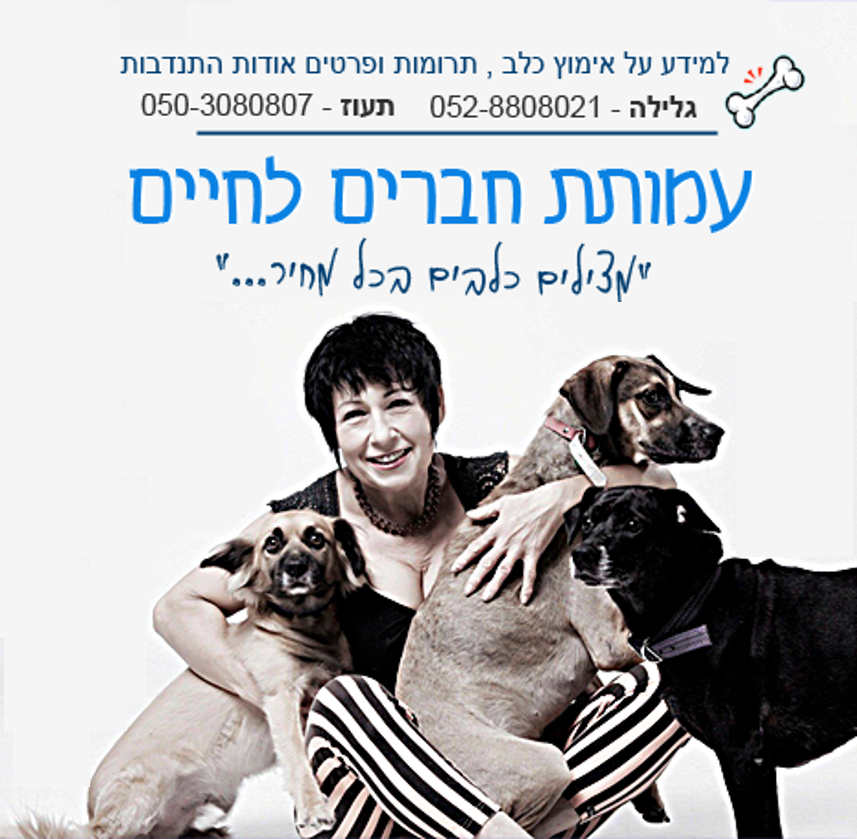
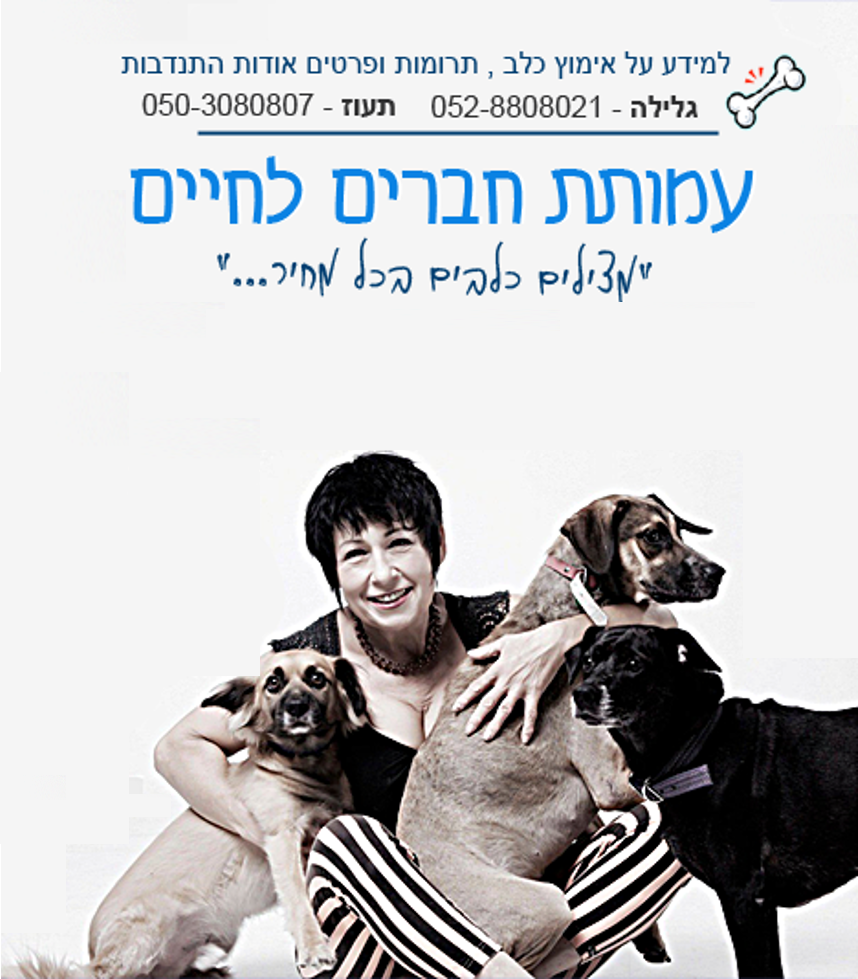
lot's of changes (: good night!

diff --git a/friends_forlife/app/templates/app/house_registration.html b/friends_forlife/app/templates/app/house_registration.html
@@ -1,0 +1,128 @@
+<!-- 
+	
+class DogHouse(models.Model):
+    owner_name = models.CharField(max_length=200, help_text="Name of doghouse owner")
+    owner_phone = models.CharField(max_length=200, help_text="Phone Number of owner")
+    owner_email = models.EmailField(help_text="Email of doghouse owner")
+    owner_city = models.CharField(max_length=50)
+    address = models.CharField(max_length=500, help_text="Full-Address Of DogHouse")
+    capacity = models.IntegerField(help_text="Maximum dogs capacity")
+
+	
+!-->
+	
+<!DOCTYPE html>
+<html class="no-js">
+	<head>
+	    <meta charset="utf-8">
+	    <meta name="viewport" content="width=device-width, initial-scale=1, minimum-scale=1">
+	    <meta http-equiv="X-UA-Compatible" content="IE=edge,chrome=1">	
+	    <title>Friends for Life</title>	
+	    <script type='text/javascript' src='https://ajax.googleapis.com/ajax/libs/jquery/1.8.3/jquery.min.js'></script>
+		<script src="../../static/js/modernizr.js"></script>
+		
+		<link rel="stylesheet" href="../../static/style/style.css">
+		<link rel="stylesheet" href="../../static/style/styleMobile.css">
+<script>
+  var footerResize = function() {
+    $('#footer').css('position', $("body").height() + $("#footer").innerHeight() > $(window).height() ? "inherit" : "fixed");
+  };
+  $(window).resize(footerResize).ready(footerResize);
+</script>
+	</head>
+	<body dir="rtl">	
+		<div id="outer-wrap">
+			<div id="inner-wrap">	
+			    <header id="top">
+			        <div class="block">
+			            <a href="index.html"  id="logo"></a><!--Logo-->
+			            <a class="nav-btn" id="nav-open-btn" href="#nav">Book Navigation</a>
+						<div id="contact">
+							<div id="loginBannerBeforeClick">
+								<button id="btnClick" class="based">כניסה למערכת</button>
+							</div>
+							
+							<div id="loginBannerAfterClick" style="display:none;">
+								<form name="login" action="index_submit" method="get">							        	
+						        	<input type="text" name="usermail" placeholder="שם משתמש" required>
+						        	<input type="password" name="password" placeholder="סיסמא" required>
+						        	<input type="submit" value="כניסה">
+								</form>	
+							</div>													
+						</div>	    
+					    <nav id="nav">
+				            <ul>
+				                <li class="navBtnAdopt">
+				                    <a href="dogs_4_adoption.html">אמץ כלב</a>
+				                </li>
+				             	<li class="navBtnFoster">
+				                    <a href="house_registration.html">רישום לאומנה</a>
+				                </li>
+				             <li class="navBtnAbout">
+				                    <a href="#">על העמותה</a>
+				                </li>
+				                </li>
+				                <li class="navBtnDonate">
+				                    <a href="#">תרומה</a></a>
+				                </li>
+				            </ul>	
+			            	<a class="close-btn" id="nav-close-btn" href="#top">Return to Content</a>
+			    		</nav>
+					</div>			        
+			    </header>
+				<main id="main">
+					<div class="block">
+						<div class="mainTop"></div>
+						<div class="mainContent">
+							<h1>רישום לאומנה</h1>
+							<section class="Foster_Registration">
+								<article class="information_about_foster">
+									משפחות רבות חוששות לאמץ ולהביא הביתה כלב או חתול, 
+									מחשש שיהיה צורך להחזירו בשל חוסר התאמה.
+									 לנו בעמותת "חברים לחיים" 
+									 חשוב ליידע את הציבור שישנה דרך נוספת, מוכרת פחות לשם סיוע להצלת כלבים וחתולים.
+									   מכיוון שהעמותה פועלת בדרך ייחודית - ללא מכלאות, 
+									 מרבית בעלי החיים שלנו שוהים במהלך השבוע בבתים של משפחות אומנה.  
+									 בית אומנה נועד לארח את בעל החיים זמנית לתקופה קצובה, 
+									 לרוב של שבוע. במהלך השבוע הכלב או החתול יגיעו  ליום האימוץ אשר בו ימצא בית מאמץ קבוע או שיעבור לבית אומנה זמני אחר, 
+									 לשבוע נוסף. גם אם בעל החיים עובר כמה בתים עד למציאת בית קבע, 
+									 הוא אינו נמצא ברחוב או חווה את חווית המכלאה הקשה והטראומטית. הוא נמצא בבית עם אנשים שנותנים לו חום ודואגים למחסורו. 
+									  הניסיון מלמד שדרך ייחודית זו מביאה פעמים רבות לכך שבסוף התהליך, 
+									 מגיע למשפחה המאמצת בעל חיים חברותי ורגוע יותר.
+										המשפחה האומנת מקבלת מזון לכל אורך תקופת השהייה, 
+										ביקורים אצל וטרינר במידת הצורך, ייעוץ רלוונטי וליווי ע"י משרד העמותה.  כך,
+										 גם כאלה שאינם בעלי ניסיון בגידול כלבים או חתולים יכולים לקחת חלק בתהליך ולסייע לנו. 
+										 במהלך שנות הפעילות הרבות שלנו, נתקלנו באנשים רבים ש"לא ידעו שהם כאלה" -
+										 כלומר שיש בהם אהבה גדולה לבעלי חיים שרק מחכה לפרוץ החוצה, 
+										ושמאז שההולך על ארבע נכנס לביתם, חייהם השתנו לטובה. 
+										משפחה אומנת לשבוע, לא רק שמסייעת רבות לבעל החיים 
+										שמתארח אצלה ומהווה חוליה חשובה בדרכו לאימוץ קבע,
+										 אלא שבראייתנו התהליך עצמו תורם רבות גם למשפחה עצמה,
+										  בפרט בבית עם ילדים, שסופגים חוויה ערכית אמתית של נתינה וסיוע לבעל חיים נזקק. 
+										לא מעט מהמשפחות האומנות שלנו הפכו למשפחות מאמצות עם הזמן. 
+										ככל שתצטרפנה אלינו יותר משפחות, לפעילות חשובה זו,
+										 כך נוכל לסייע במציאת בתים מאמצים ליותר כלבים וחתולים עזובים וחסרי בית.	
+								</artical>						
+							</section>			
+							<section class="indexRightSide">
+								
+							</section>
+						</div>
+						<div class="mainBtn"></div>
+					</main>
+					<div id="footer">
+					  Footer content
+					</div>
+					<script>
+					  var footerResize = function() {
+					    $('#footer').css('position', $("body").height() + $("#footer").innerHeight() > $(window).height() ? "inherit" : "fixed");
+					  };
+					  $(window).resize(footerResize).ready(footerResize);
+					</script>		
+				</div><!--Block-->			    	
+			</div><!--/#inner-wrap-->
+		</div><!--/#outer-wrap-->
+		<script src="../../static/js/main.js"></script>
+		<script src="../../static/js/script.js"></script>
+	</body>
+</html>

diff --git a/friends_forlife/app/static/style/style.css b/friends_forlife/app/static/style/style.css
@@ -1,4 +1,4 @@
-*{margin:0; padding: 0;}
+*{margin:0;padding: 0;}
 /*=========================================*/
 /*=========== GENERAL SETTING ===============*/ 
 /*=========================================*/
@@ -12,8 +12,13 @@ a:active,a:hover{outline: 0;}
 
 @font-face{font-family: "trashimclm";src: url(trashimclm.ttf);}
 
-body {font-family: trashimclm; color: #333; background:#333333 url("../../static/img/background/body-bg-tile.jpg") bottom repeat; 
-  	  -webkit-text-size-adjust: 100%; -ms-text-size-adjust: 100%;}
+body {
+  	  font-family: trashimclm;
+  	  color: #333;
+  	  background:#333333 url("../../static/img/background/body-bg-tile.jpg") bottom repeat;
+  	  -webkit-text-size-adjust: 100%;
+  	  -ms-text-size-adjust: 100%;
+  	  }
 
 .clear{clear: both;}
 
@@ -195,7 +200,7 @@ body {font-family: trashimclm; color: #333; background:#333333 url("../../static
 
 .mainContent h1{
 	color:#3E5560;
-	font-size:34px; line-height:19px; margin:0 15px 0 10px;
+	font-size:40px; line-height:19px; margin:0 15px 0 10px;
 }
 /*=========================================*/
 /*=========== GENERAL FOOTER SETTINGS ===============*/ 
@@ -265,7 +270,7 @@ font-size: 11px;}
 .indexRightSide{
 	width:400px;
 	float:right;
-	margin:50px 20px 0 0;		
+	margin: 5px 20px 0 0;		
 }
 .banner{
 	width:110%;
@@ -273,21 +278,27 @@ font-size: 11px;}
 }
 
 .indexRightSide h2{
+	width: 430px;
 	color:#729299;
 	text-align:center;
-	margin: 20px 0 0 0;
+	margin: 28px 0 0 0;
+
 }
 .indexRightSide h3{
+	width: 430px;
 	color:#77706b;
 	text-align:center;
+	line-height: 28px;
 	margin: 20px 0 0 0;	
 }
 .indexRightSide h4{
 	color:#77706b;
 	text-align:center;
 	margin: 40px 0 0 0;	
+	font-weight: bold;
 }
 .indexRightSide p{
+	
 	font-size:16px;
 	color:#77706b;
 	text-align:center;
@@ -305,17 +316,17 @@ font-size: 11px;}
 
 .indexLeftSideAdoptaionDays, 
 .indexLeftSideAdopt{width:160px; height:110px; padding:45px 180px 0px 43px; float:left;
-					margin: 20px 0 20px 0;}
+					margin: 0 0 20px 0;}
 .indexLeftSideStore, .indexLeftSideVolenteer{width:160px; height:110px; float:left;	
-											 padding:55px 45px 0px 180px;}
-.indexLeftSideAdoptaionDays h4,.indexLeftSideAdopt h4{text-align:center; font-size:25px;
+											 padding:55px 45px 0px 180px; margin-bottom:18px; }
+.indexLeftSideAdoptaionDays h4,.indexLeftSideAdopt h4{text-align:center; font-size:25px; margin-top: -10px; line-height: 35px;
 													  color:#7A8D90;font-weight:bold;}
-.indexLeftSideAdoptaionDays p, .indexLeftSideAdopt p{text-align:center; font-size:14px; color:#729299;	}
+.indexLeftSideAdoptaionDays p, .indexLeftSideAdopt p{text-align:center; font-size:15px; color:#729299;	line-height: 20px;}
 .indexLeftSideStore h4, .indexLeftSideVolenteer h4{text-align:center; font-size:25px;
-												   color:#AC6D76; width:200px; margin: -15px -20px 0 0; font-weight:bold;	}
-.indexLeftSideStore p, .indexLeftSideVolenteer p{text-align:center; font-size:14px; width:200px; color:#DDB2BA;}
+												   color:#AC6D76; margin: -15px -35px 0; font-weight:bold; line-height: 30px;}
+.indexLeftSideStore p, .indexLeftSideVolenteer p{text-align:center; font-size:15px; color:#AC6D76; line-height: 20px;}
 .indexLeftSideStore p{margin:2px -24px 0 0;}
-.indexLeftSideVolenteer p{margin:15px -20px 0 0;}
+.indexLeftSideVolenteer p{margin:0 -20px 0 0; }
 
 
 =======
@@ -565,4 +576,18 @@ input[type="search"]::-webkit-search-decoration {
 	font-family: gisha;
 	font-size: 15px;
 	font-weight: lighter;
+}
+
+
+
+/*=========================================*/
+/*==PAGE - Foster_Registration =====*/ 
+/*=========================================*/
+
+.information_about_foster
+{
+	margin: 20px 20px 20px 20px;
+	line-height: 25px;
+	font-size: 18px;
+	width: 50%;
 }

diff --git a/friends_forlife/app/templates/app/index.html b/friends_forlife/app/templates/app/index.html
@@ -94,29 +94,28 @@
 						<div class="mainTop"></div>
 						<div class="mainContent">
 							<section class="indexLeftSide">
-								<h2>אתם גם יכולים לעזור:</h2>
 								<article class="indexLeftSideAdopt">
 									<a href="dogs_4_adoption.html">
 										<h4 class="header">אימוץ כלבים</h4>
-										<p class="paragraph">אימוץ כלבים, גורים, מבוגרים מכל הגזעים והסוגים - איך מתחילים?</p>
+										<p class="paragraph">אימוץ כלבים, גורים, בוגרים מכל הגזעים והסוגים - איך מתחילים?</p>
 									</a>
 								</article>								
 								<article class="indexLeftSideVolenteer">
 									<a href="dogs_4_adoption.html">
 										<h4 class="header">דרושים מתנדבים</h4>
-										<p class="paragraph">רוצים לעזור לכלבים? אנחנו צריכים מתנדבים בכל חלקי הארץ?</p>
+										<p class="paragraph">רוצים לעזור לכלבים? לעמותה דרושים מתנדבים מכל חלקי הארץ</p>
 									</a>									
 								</article>
 								<article class="indexLeftSideAdoptaionDays">
 									<a href="dogs_4_adoption.html">
 										<h4 class="header">ימי אימוץ</h4>
-										<p class="paragraph">רשימת ימי אימוץ שבו תמצאו את החבר החדש לחיים שלכם</p>
+										<p class="paragraph">רשימת ימי האימוץ בהם תוכלו למצוא חבר לחיים</p>
 									</a>										
 								</article>
 								<article class="indexLeftSideStore">
 									<a href="dogs_4_adoption.html">
-										<h4 class="header">חנות מזון לחיות של העמותה</h4>
-										<p class="paragraph">80% מרווח החנות נתרם להציל עוד כלבים! בעזרת המזון שתקנו תצילו חיים</p>
+										<h4 class="header">חנות המזון שלנו</h4>
+										<p class="paragraph">80% מרווח החנות נתרם להצלת  כלבים נוספים! </p>
 									</a>										
 								</article>
 							</section>
@@ -124,7 +123,7 @@
 							<section class="indexRightSide">
 								<img class="banner" src="../../static/img/main_photo.png">
 								<h2>עמותת חברים לחיים מצילה חיים בכל מחיר!</h2>
-								<h3>עמותת "חברים לחיים" הוקמה ע"י גלילה אבן חן, פועלת לחיפוש בתים מאמצים לכלבים. כל הכלבים נמסרים לאימוץ כשהם מחוסנים עם שבב ומעוקרים. הכלבים בריאים ושמחים והם ראויים לחיים ולא למוות!</h3>
+								<h3>עמותת "חברים לחיים" הוקמה ע"י גלילה אבן חן ופועלת לחיפוש בתים מאמצים לכלבים. כל הכלבים נמסרים לאימוץ כשהם מחוסנים עם שבב ומעוקרים. הכלבים בריאים ושמחים והם ראויים לחיים ולא למוות!</h3>
 								<!--<h4>י<b>מי אימוץ:</b> כל יום שישי 12-16:00 בצהריים, גן מאיר בת"א. גלילה מגיעה עם הכלבים המדהימים. מדי יום ניתן לתאם פגישה כדי לראות את הכלבים ולאמץ חבר לחיים.</h4>
 								<p>רוצים לאמץ כלב? רוצים להיות משפחה אומנת לכלבים?<br> גלילה - 052-8808021 תעוז -050-3080807</p>-->
 							</section>

diff --git a/friends_forlife/app/templates/app/dogs_list.html b/friends_forlife/app/templates/app/dogs_list.html
@@ -4,7 +4,7 @@
 	    <meta charset="utf-8">
 	    <meta name="viewport" content="width=device-width, initial-scale=1, minimum-scale=1">
 	    <meta http-equiv="X-UA-Compatible" content="IE=edge,chrome=1">	
-	    <title>[4] Treasure Island</title>	
+	    <title>Friends for Life</title>	
 		<script src="../../static/js/modernizr.js"></script>
 		<link rel="stylesheet" href="../../static/style/style.css">
 		<link rel="stylesheet" href="../../static/style/styleMobile.css">
@@ -23,10 +23,10 @@
 					    <nav id="nav">
 				            <ul>
 				                <li class="is-active navBtnAdopt">
-				                    <a href="#">אמץ כלב</a>
+				                    <a href="dogs_4_adoption.html">אמץ כלב</a>
 				                </li>
 				             	<li class="navBtnFoster">
-				                    <a href="#">רישום לאומנה</a>
+				                    <a href="house_registration.html">רישום לאומנה</a>
 				                </li>
 				             <!--<li class="navBtnAbout">
 				                    <a href="#">אודות</>
@@ -38,7 +38,7 @@
 				                    <a href="#">צור קשר</a>
 				                </li>-->
 				                <li class="navBtnDonate">
-				                    <a href="#">תרומה</a></a>
+				                    <a href="donation_baskets.html">תרומה</a></a>
 				                </li>
 				            </ul>	
 			            	<a class="close-btn" id="nav-close-btn" href="#top">Return to Content</a>

diff --git a/friends_forlife/app/templates/app/dogs_4_adoption.html b/friends_forlife/app/templates/app/dogs_4_adoption.html
@@ -4,7 +4,7 @@
 	    <meta charset="utf-8">
 	    <meta name="viewport" content="width=device-width, initial-scale=1, minimum-scale=1">
 	    <meta http-equiv="X-UA-Compatible" content="IE=edge,chrome=1">	
-	    <title>[4] Treasure Island</title>	
+	    <title>Friends for Life</title>	
 		<script src="../../static/js/modernizr.js"></script>
 		<link rel="stylesheet" href="../../static/style/style.css">
 		<link rel="stylesheet" href="../../static/style/styleMobile.css">
@@ -14,7 +14,7 @@
 			<div id="inner-wrap">	
 			    <header id="top">
 			        <div class="block">
-			            <a href="index.html"  id="logo"></a><!--Logo-->
+			            <a href="index.html" id="logo"></a><!--Logo-->
 			            <a class="nav-btn" id="nav-open-btn" href="#nav">Book Navigation</a>
 			            <div id="contact">
 			                <span class="based">we're based in Limerick</span>
@@ -23,7 +23,7 @@
 					    <nav id="nav">
 				            <ul>
 				                <li class="is-active navBtnAdopt">
-				                    <a href="#">אמץ כלב</a>
+				                    <a href="house_registration.html">אמץ כלב</a>
 				                </li>
 				             	<li class="navBtnFoster">
 				                    <a href="#">רישום לאומנה</a>
